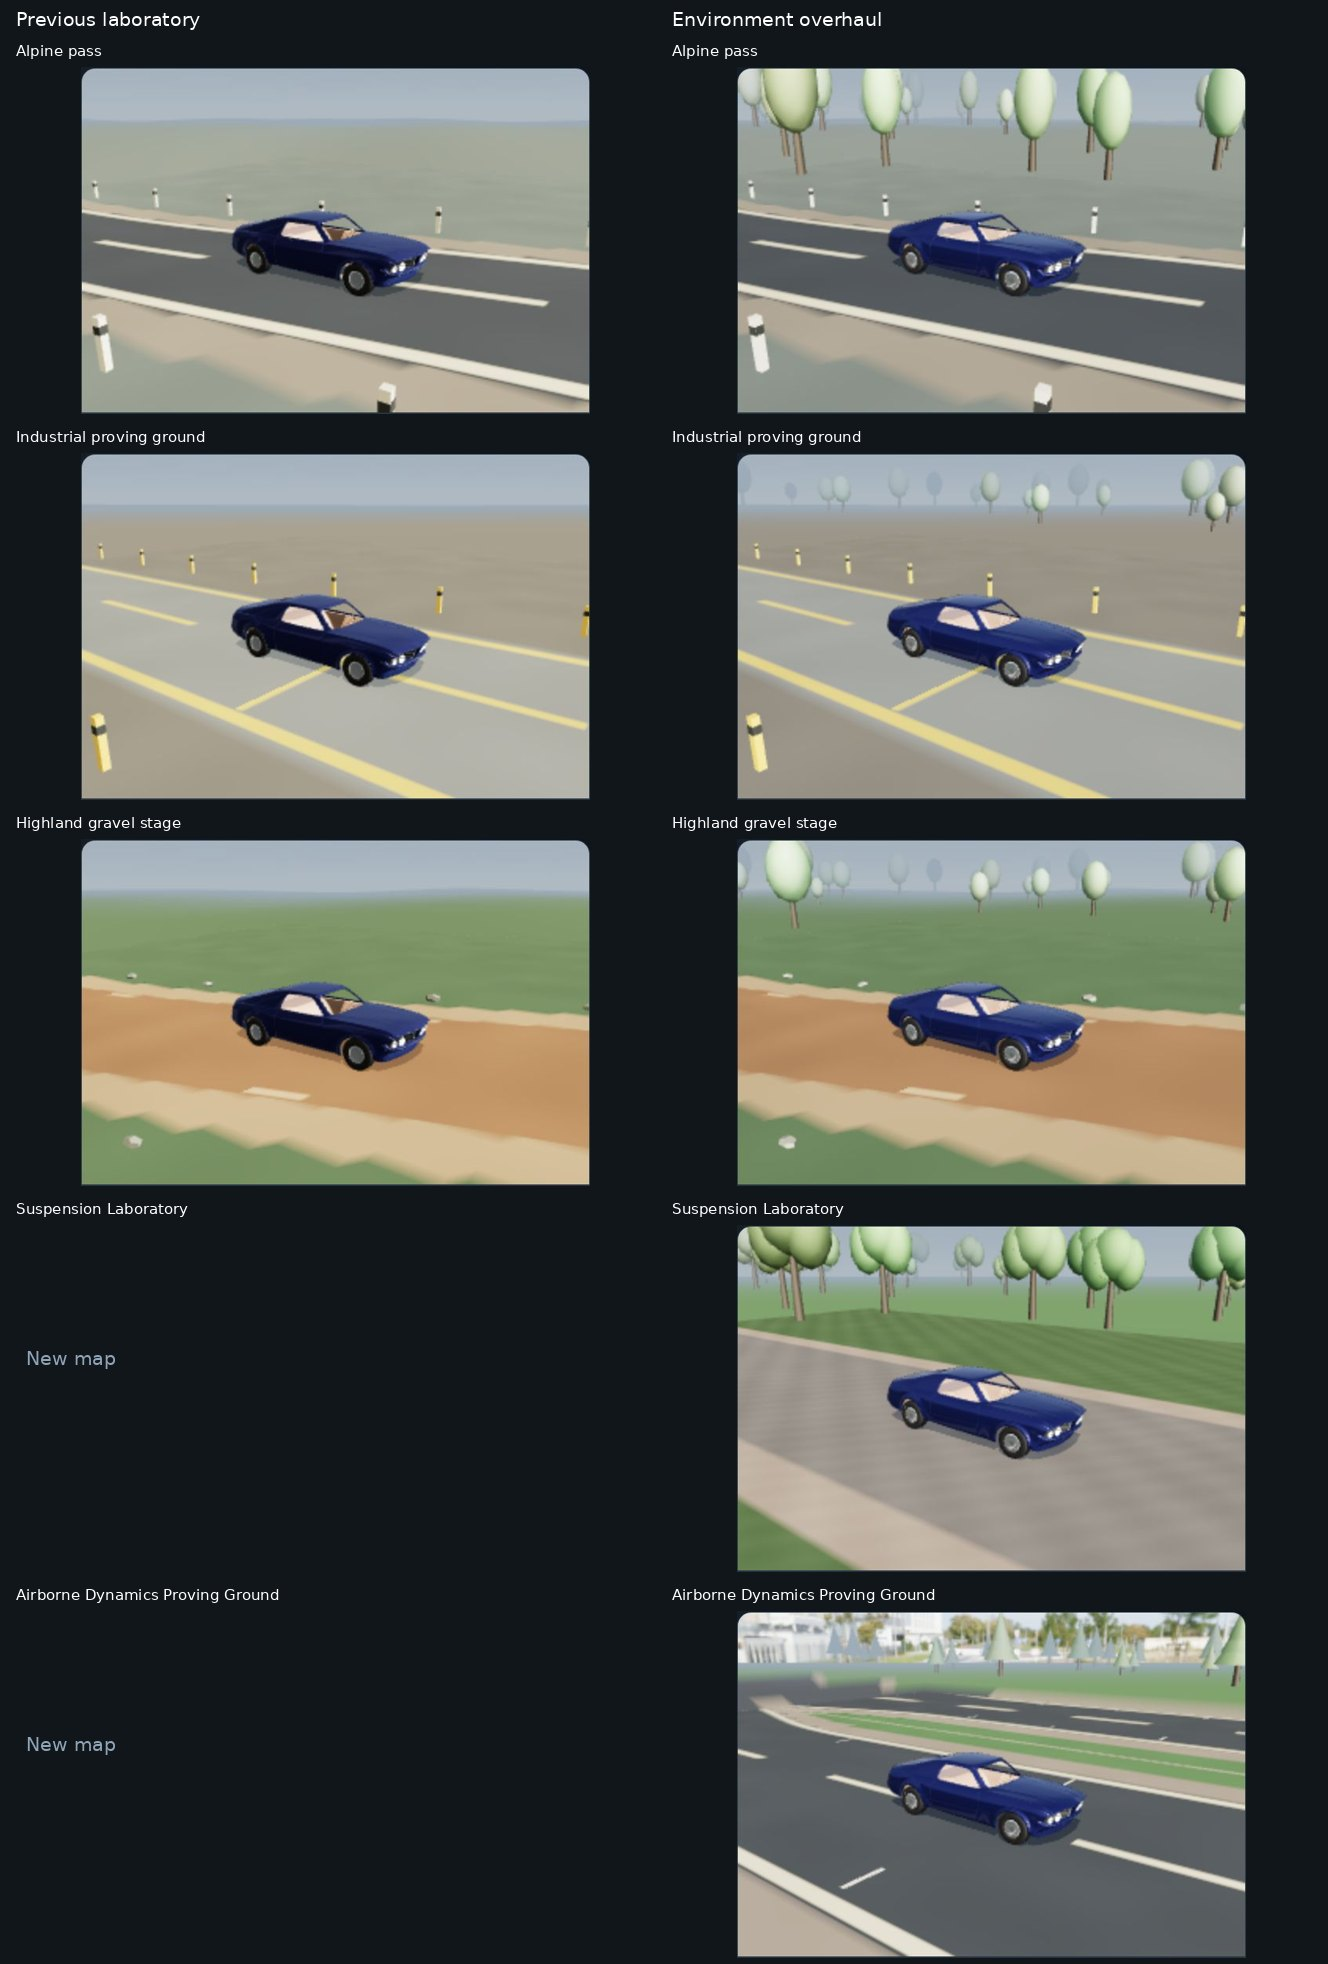
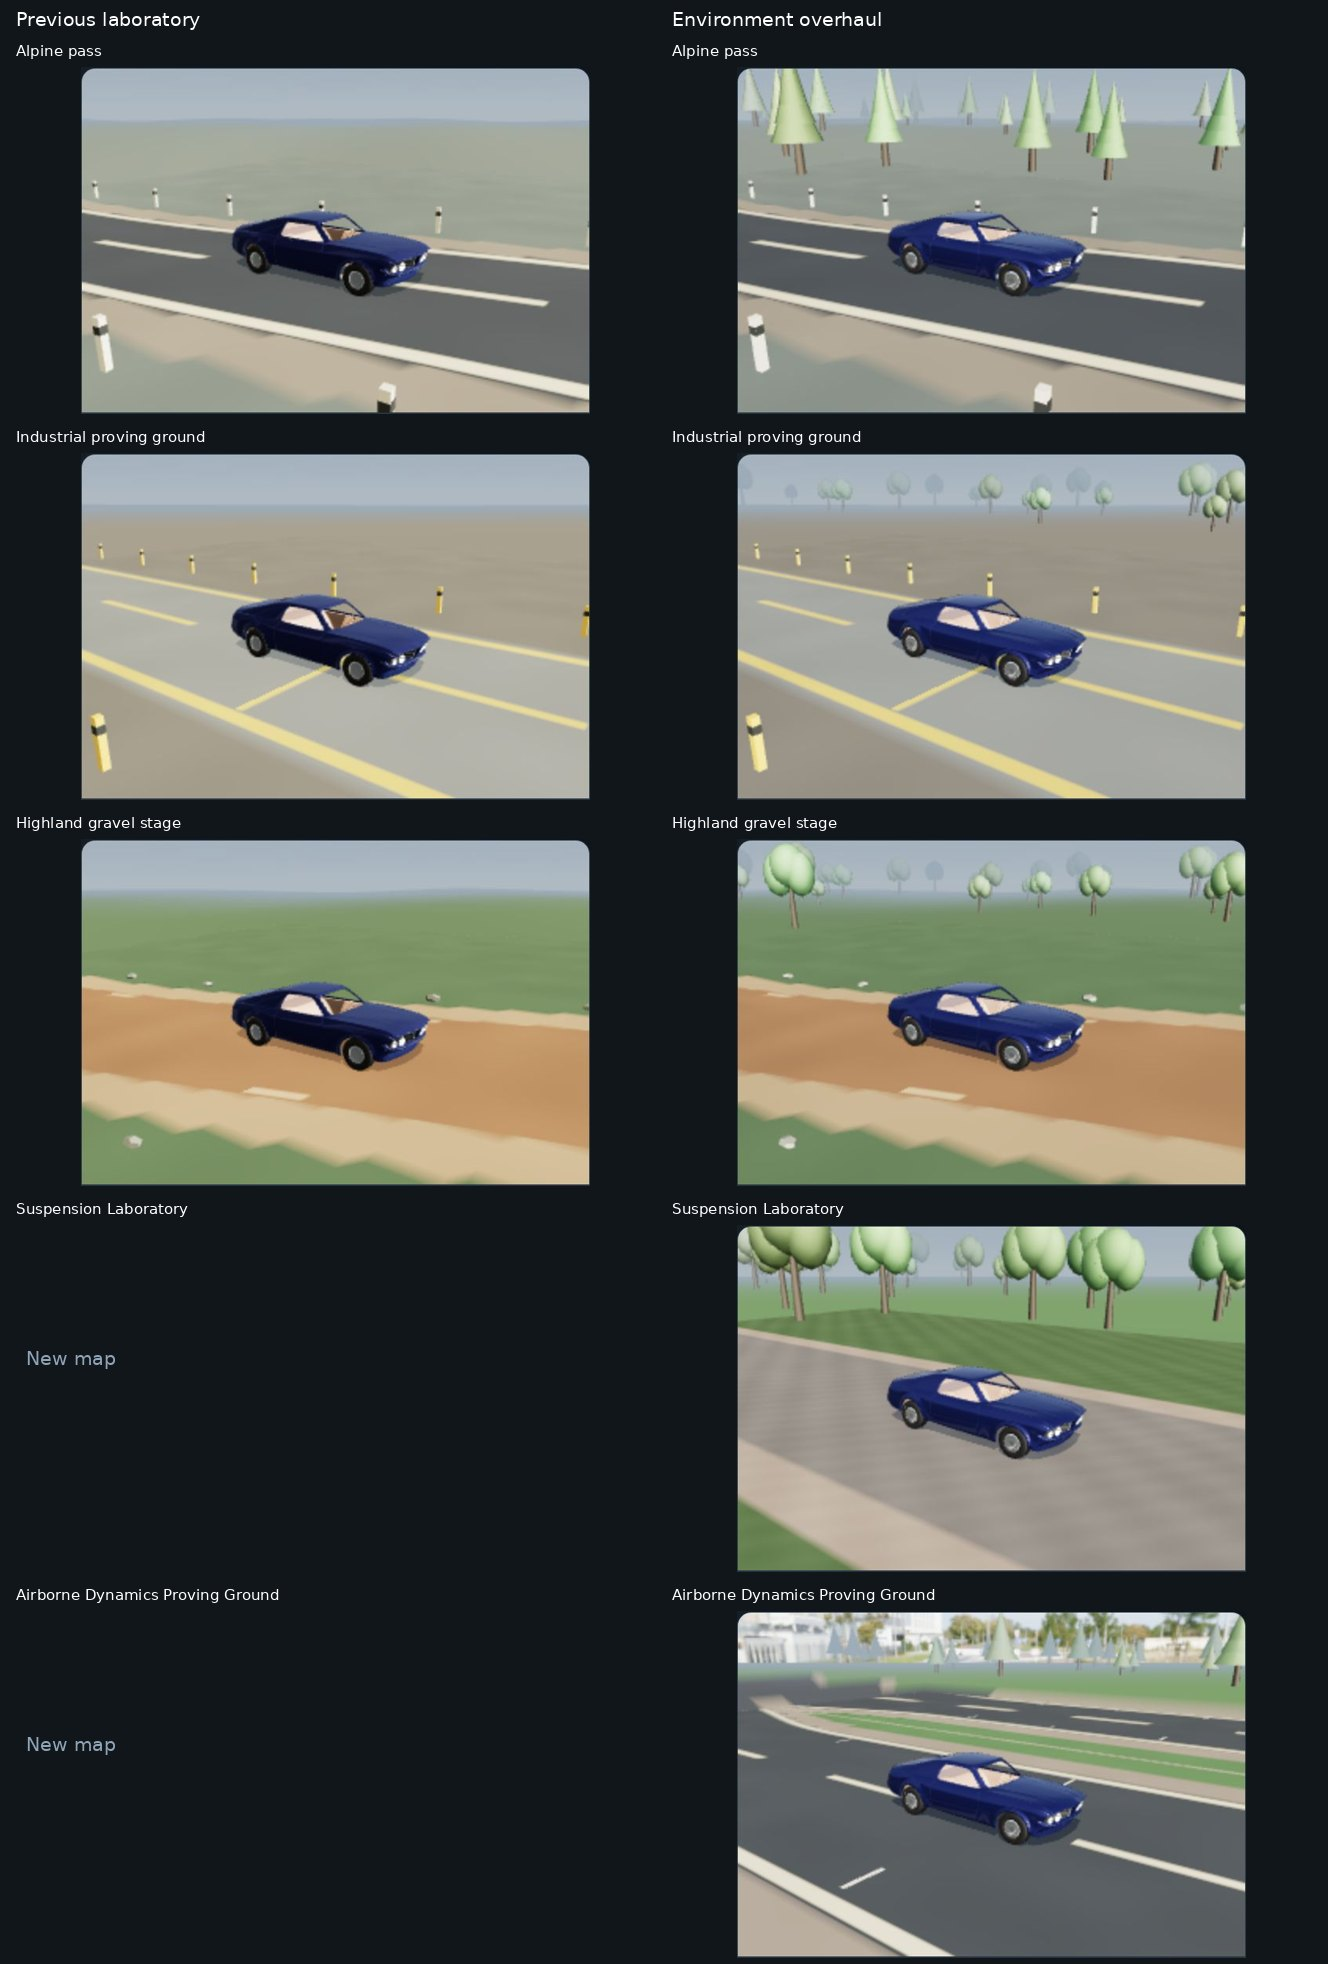
Capture the final maps and an actual four-wheel flight frame

diff --git a/research/scientific-rebuild/fast-vehicle-poc/variable-terrain/laboratory/environment-overhaul.md b/research/scientific-rebuild/fast-vehicle-poc/variable-terrain/laboratory/environment-overhaul.md
@@ -74,3 +74,9 @@ The current laboratory initialized every map in WebGL, and a native WebGPU
 canvas texture probe returned nonuniform output for the flight map using
 SwiftShader Vulkan. These are software-browser checks. RTX and Mac frame
 pacing remain unmeasured.
+
+The launch capture was also repeated with the simulation running until
+all four contact forces reached zero, then paused for the
+[airborne frame](results/flight-airborne-webgl.jpg). A separate WebGPU run
+passed the texture check with the EXR enabled and yaw set to 22°.
+The combined laboratory and engine-lifecycle suite passed all 73 tests.
